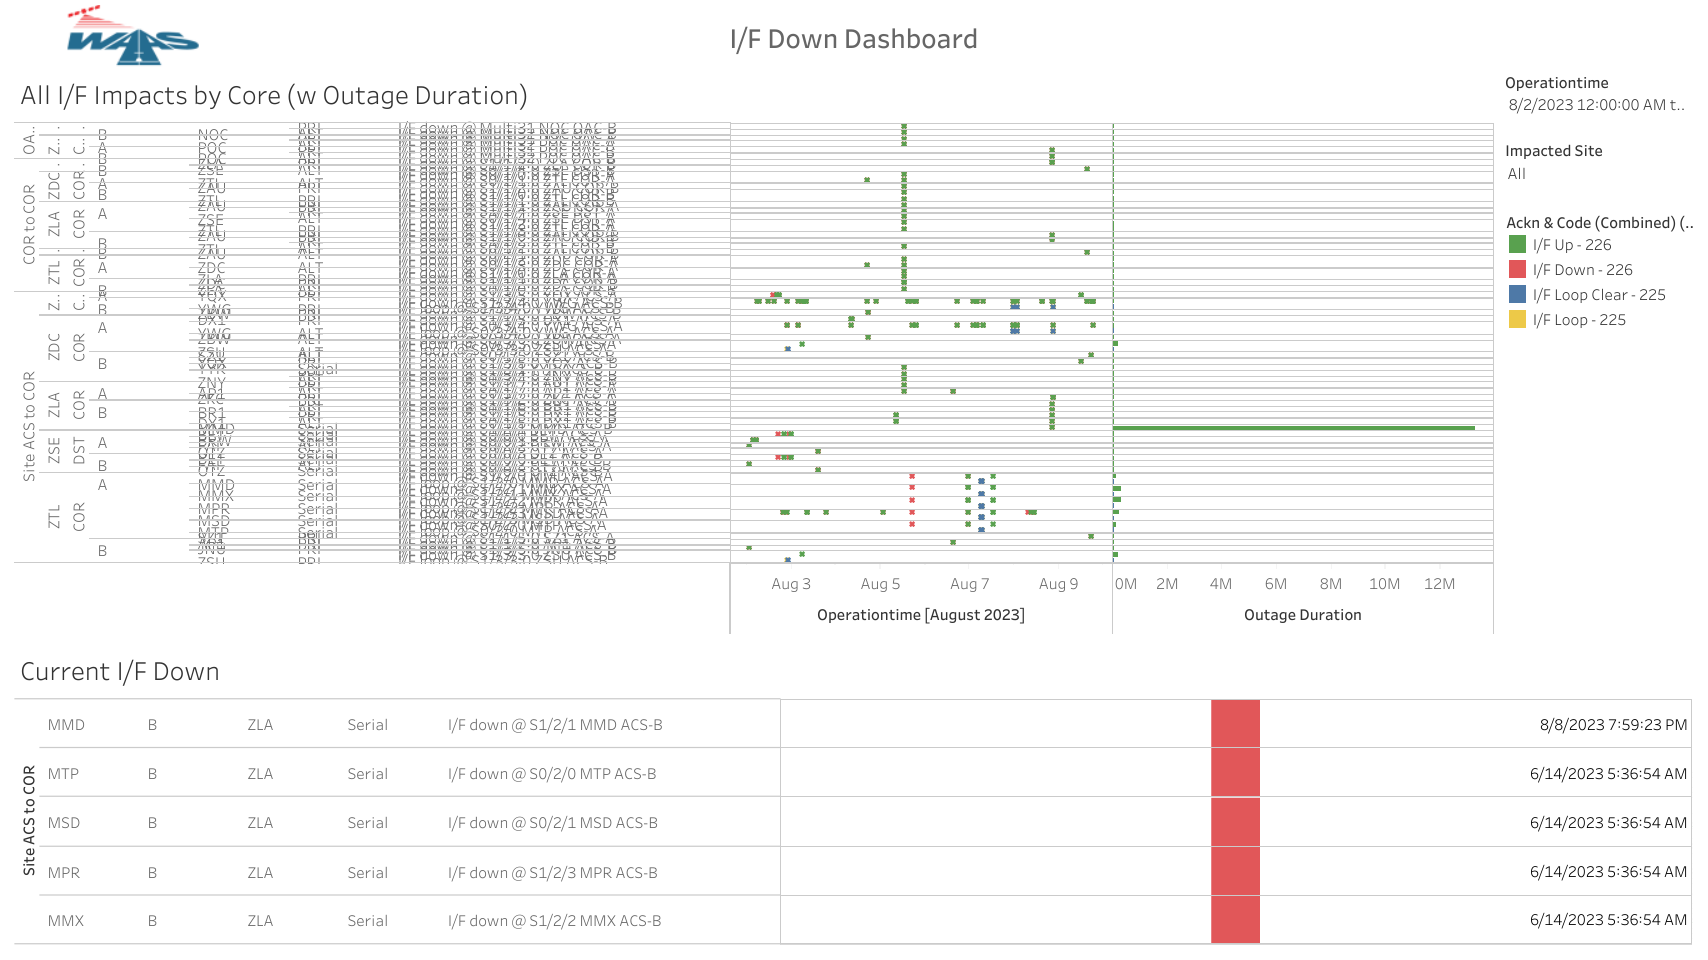
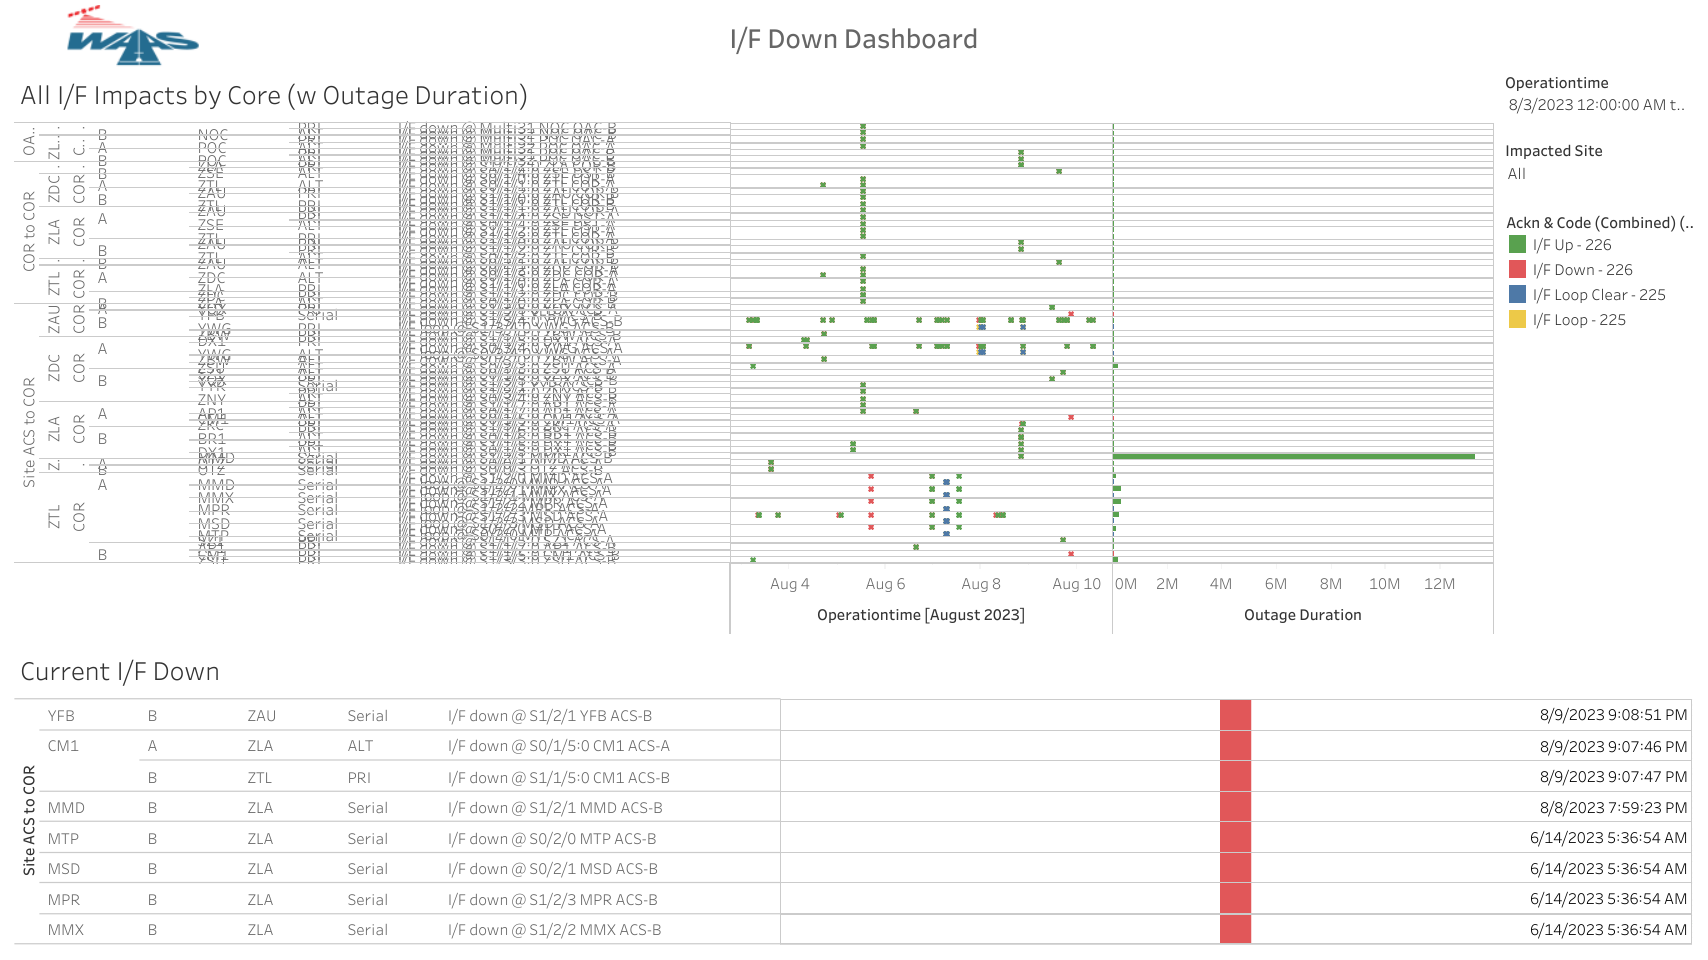
added overnight failures to highlights

diff --git a/sysmon/index.html b/sysmon/index.html
@@ -138,8 +138,9 @@
                                                                               <li>8/9 19:14 - <em>ZOB WRE-B</em>
                                                                                     upgraded to
                                                                                     W7.391L; <strong>restored to Normal
-                                                                                          at...</strong></li>
-                                                                              <li>... - <em>ZOB WRE-A</em> upgraded to
+                                                                                          at 8/9 20:31</strong></li>
+                                                                              <li>8/10 11:38 - <em>ZOB WRE-A</em>
+                                                                                    upgraded to
                                                                                     W7.391L; <strong>restored to Normal
                                                                                           at...</strong></li>
                                                                         </ul>
@@ -343,6 +344,31 @@
                                                       </div>
                                                 </div>
 
+                                                <div class="list-group-item list-group-item-danger">
+                                                      <h4 class="mb-0">8/9 - CM1 / YFB Comms Down Hard</h4>
+                                                      <div class="mb-0 opacity-75">
+                                                            <ul>
+                                                                  <li>8/9 21:07 - CM1 Ring 1 ALT / Ring 2 PRI and YFB
+                                                                        Ring 2 comms all down hard</li>
+                                                            </ul>
+                                                      </div>
+                                                </div>
+
+                                                <div class="list-group-item list-group-item-danger">
+                                                      <h4 class="mb-0">8/10 - MMD WRE-A Freq Std Failure</h4>
+                                                      <div class="mb-0 opacity-75">
+                                                            <ul>
+                                                                  <li>8/10 02:07 - MMD WRE-A Faulted with SEs 52, 53,
+                                                                        59, 29; OSC_VC for WRE-A dropped to 0 several
+                                                                        times, and the WRE could not be restored;
+                                                                        <strong>Freq Std appears to be OFFLINE since
+                                                                              8/10 04:39</strong></li>
+                                                            </ul>
+                                                            <p class="text-center"><img class="img-thumbnail" src="img/20230809_MMD_WRE-A_Fault.PNG"
+                                                                        alt="20230810 - MMD WRE-A Freq Std Failure"></p>
+                                                      </div>
+                                                </div>
+
                                                 <div class="list-group-item list-group-item-warning">
                                                       <h4 class="mb-0">Various Comm Impacts</h4>
                                                       <div class="mb-0 opacity-75">
@@ -375,6 +401,8 @@
                                                       <h4 class="mb-0">List of current offline WREs</h4>
                                                       <div class="mb-0 opacity-75">
                                                             <ul>
+                                                                  <li><strong>MMD WRE-A</strong> - <em>8/9-...</em> -
+                                                                        Freq Std failed</li>
                                                                   <li><strong>BET WRE-B</strong> - <em>8/3-...</em> -
                                                                         Freq Std failed during high temperatures at site
                                                                   </li>
